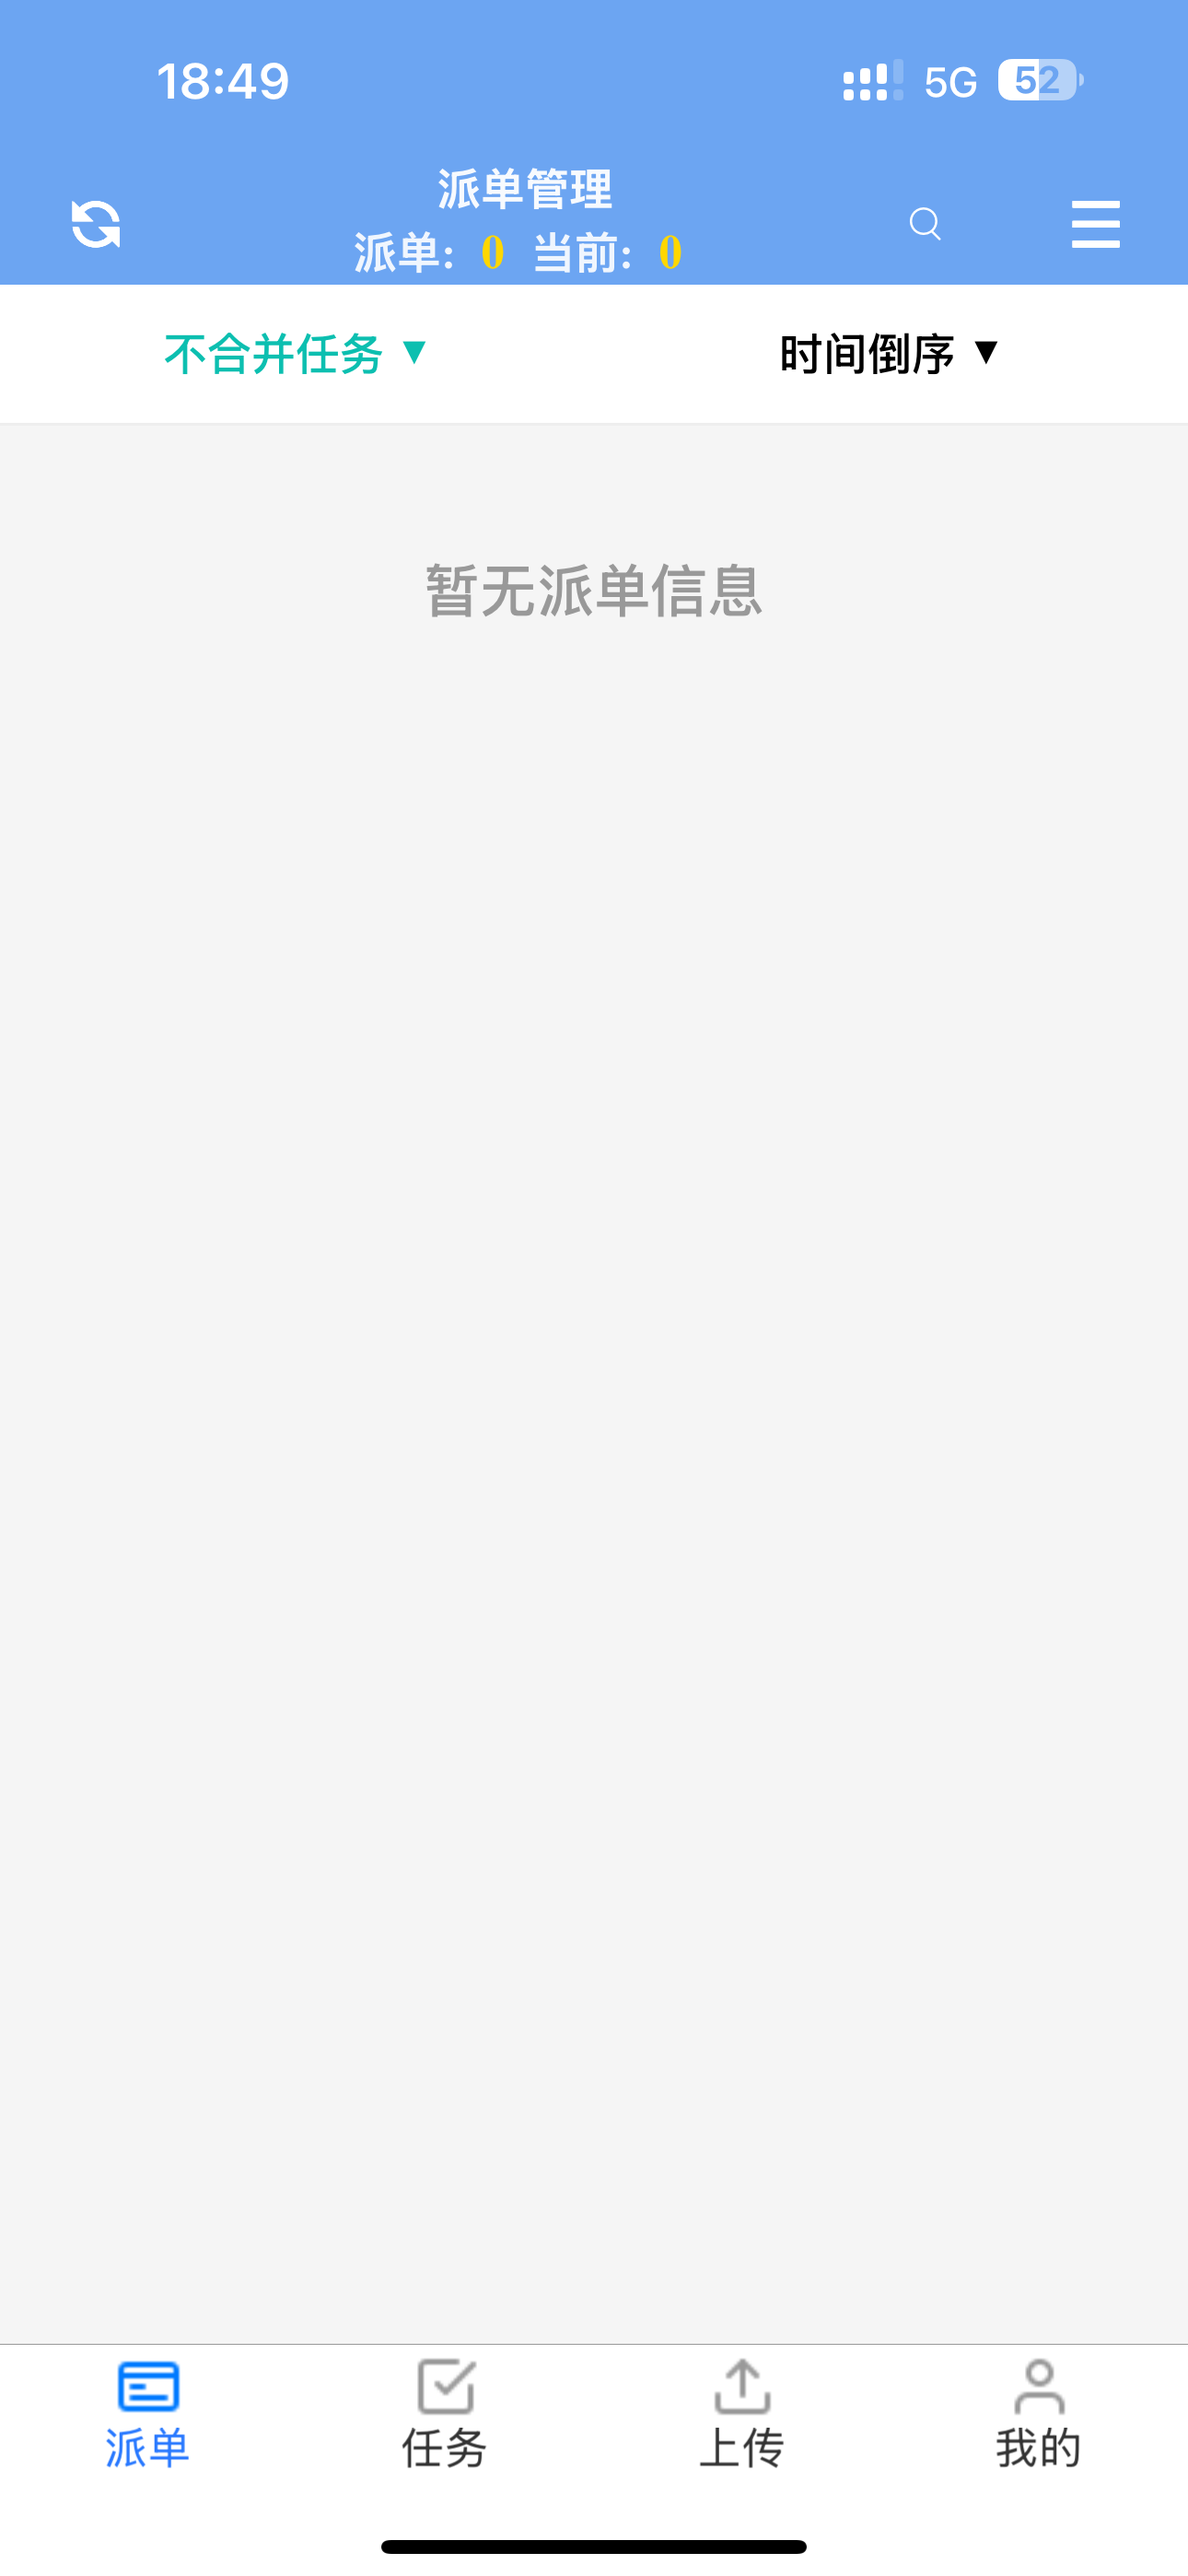
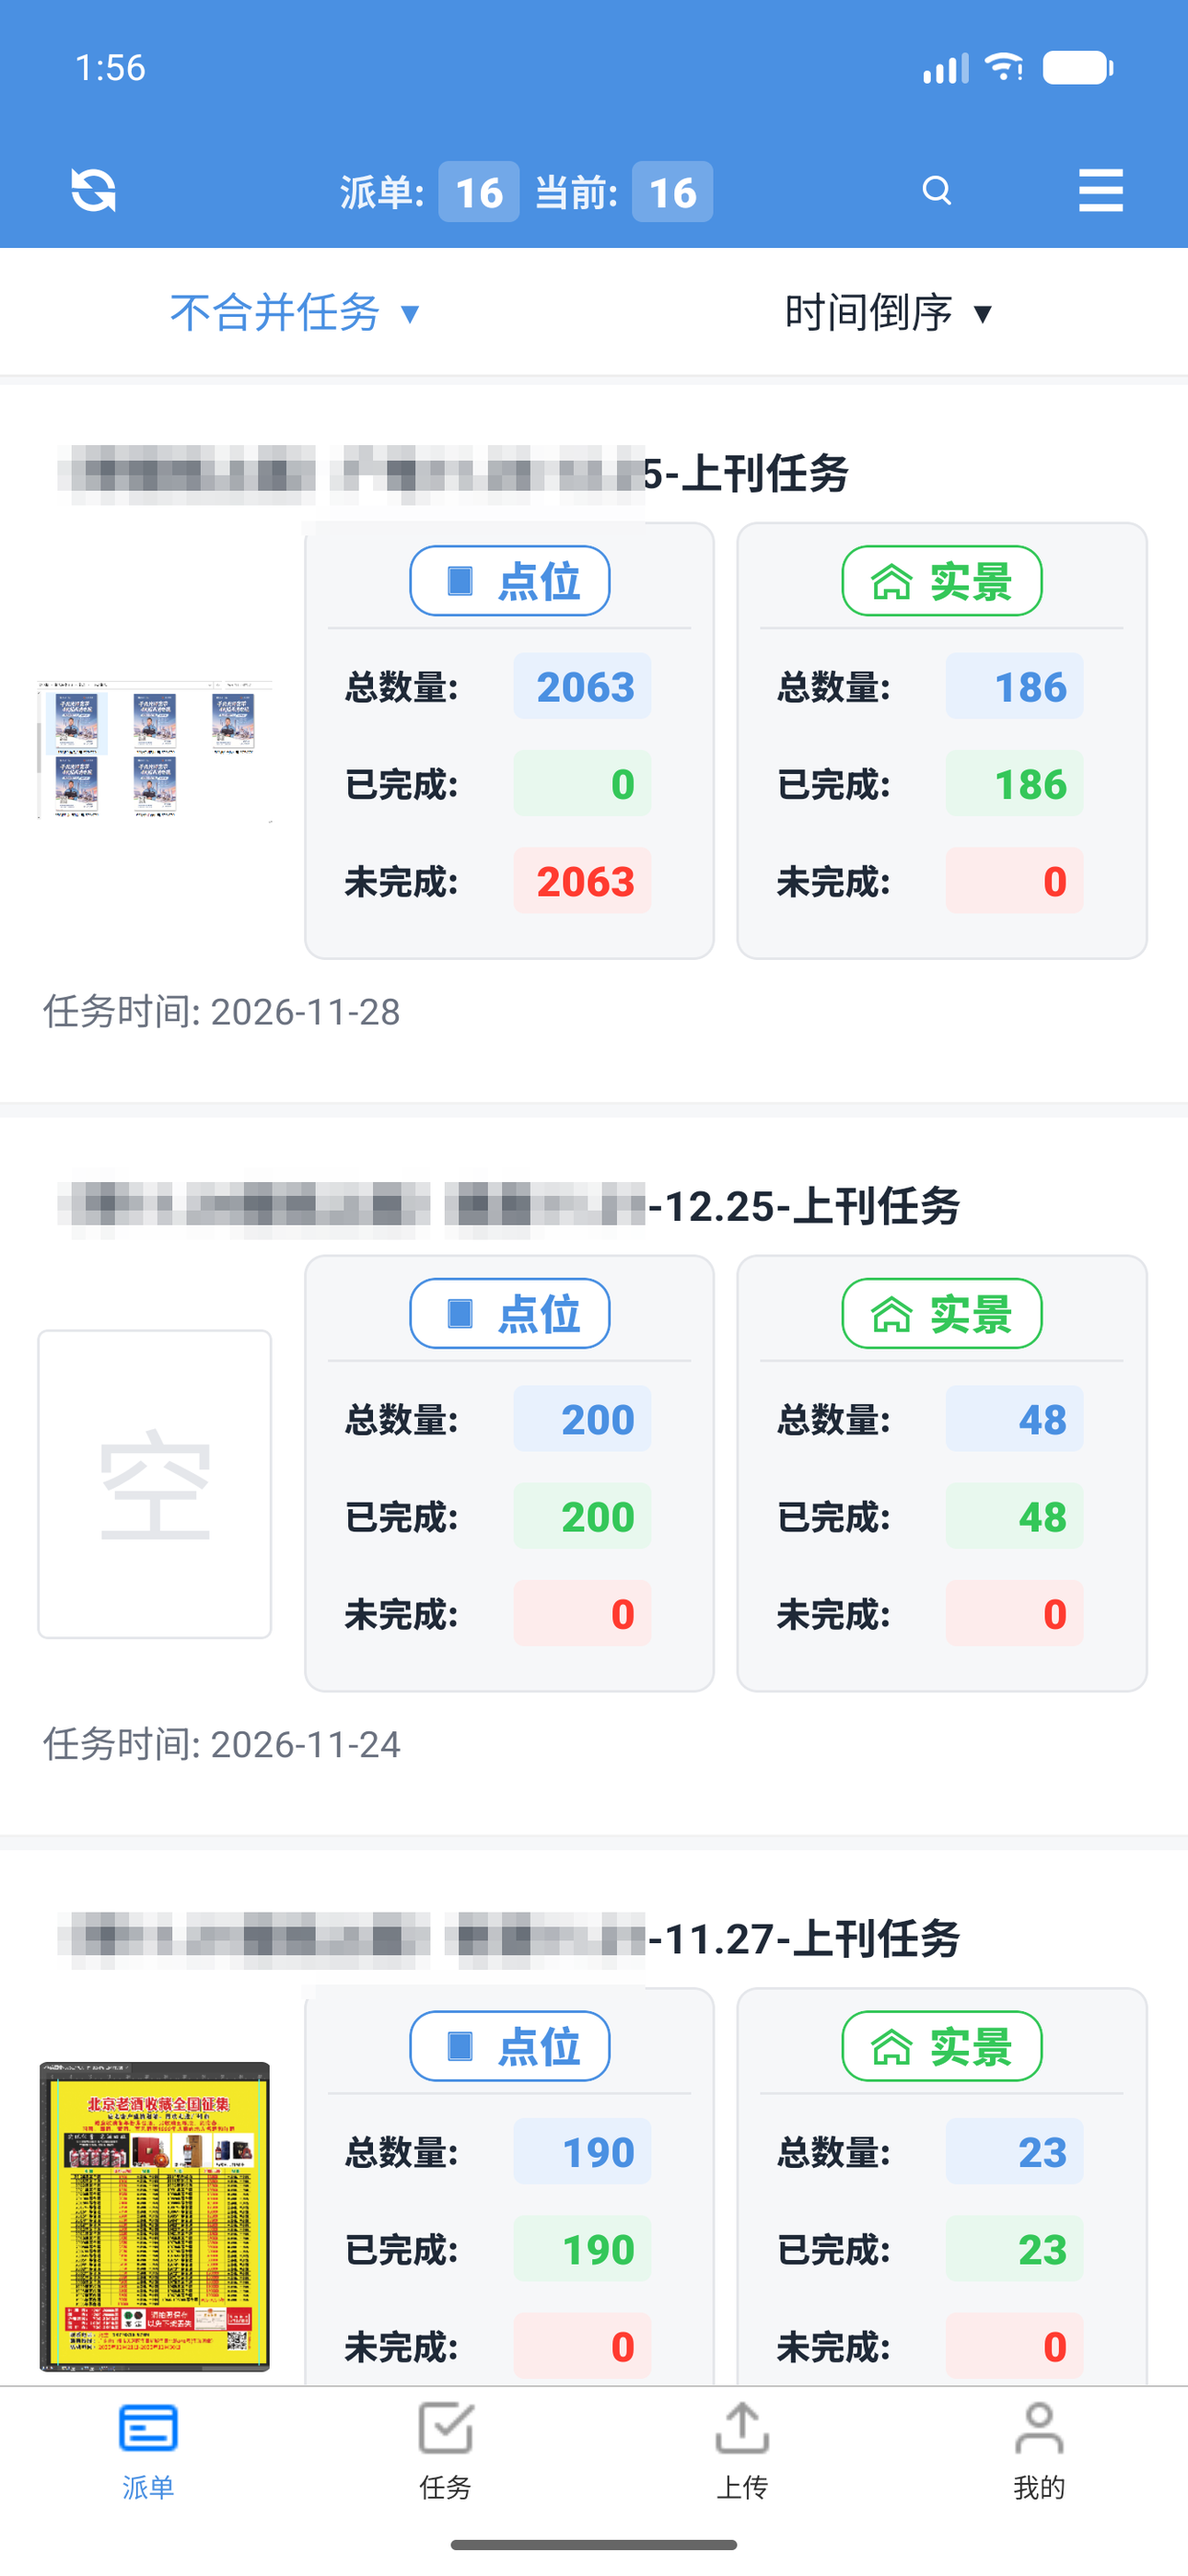
style: 更新移动端UI图片及轮播图对象适配属性

diff --git a/css/style.css b/css/style.css
@@ -289,7 +289,7 @@ body { padding-top: 72px; }
   padding: 0;
 }
 .phone-slides { display: flex; height: 100%; transition: transform 0.5s cubic-bezier(0.16, 1, 0.3, 1); }
-.phone-slide { flex: 0 0 100%; width: 100%; height: 100%; object-fit: cover; object-position: top; }
+.phone-slide { flex: 0 0 100%; width: 100%; height: 100%; object-fit: fill; }
 .phone-dots { position: absolute; left: 0; right: 0; bottom: 12px; display: flex; justify-content: center; gap: 6px; }
 .phone-dots .dot {
   width: 7px; height: 7px; border-radius: 999px; border: 0; padding: 0;
